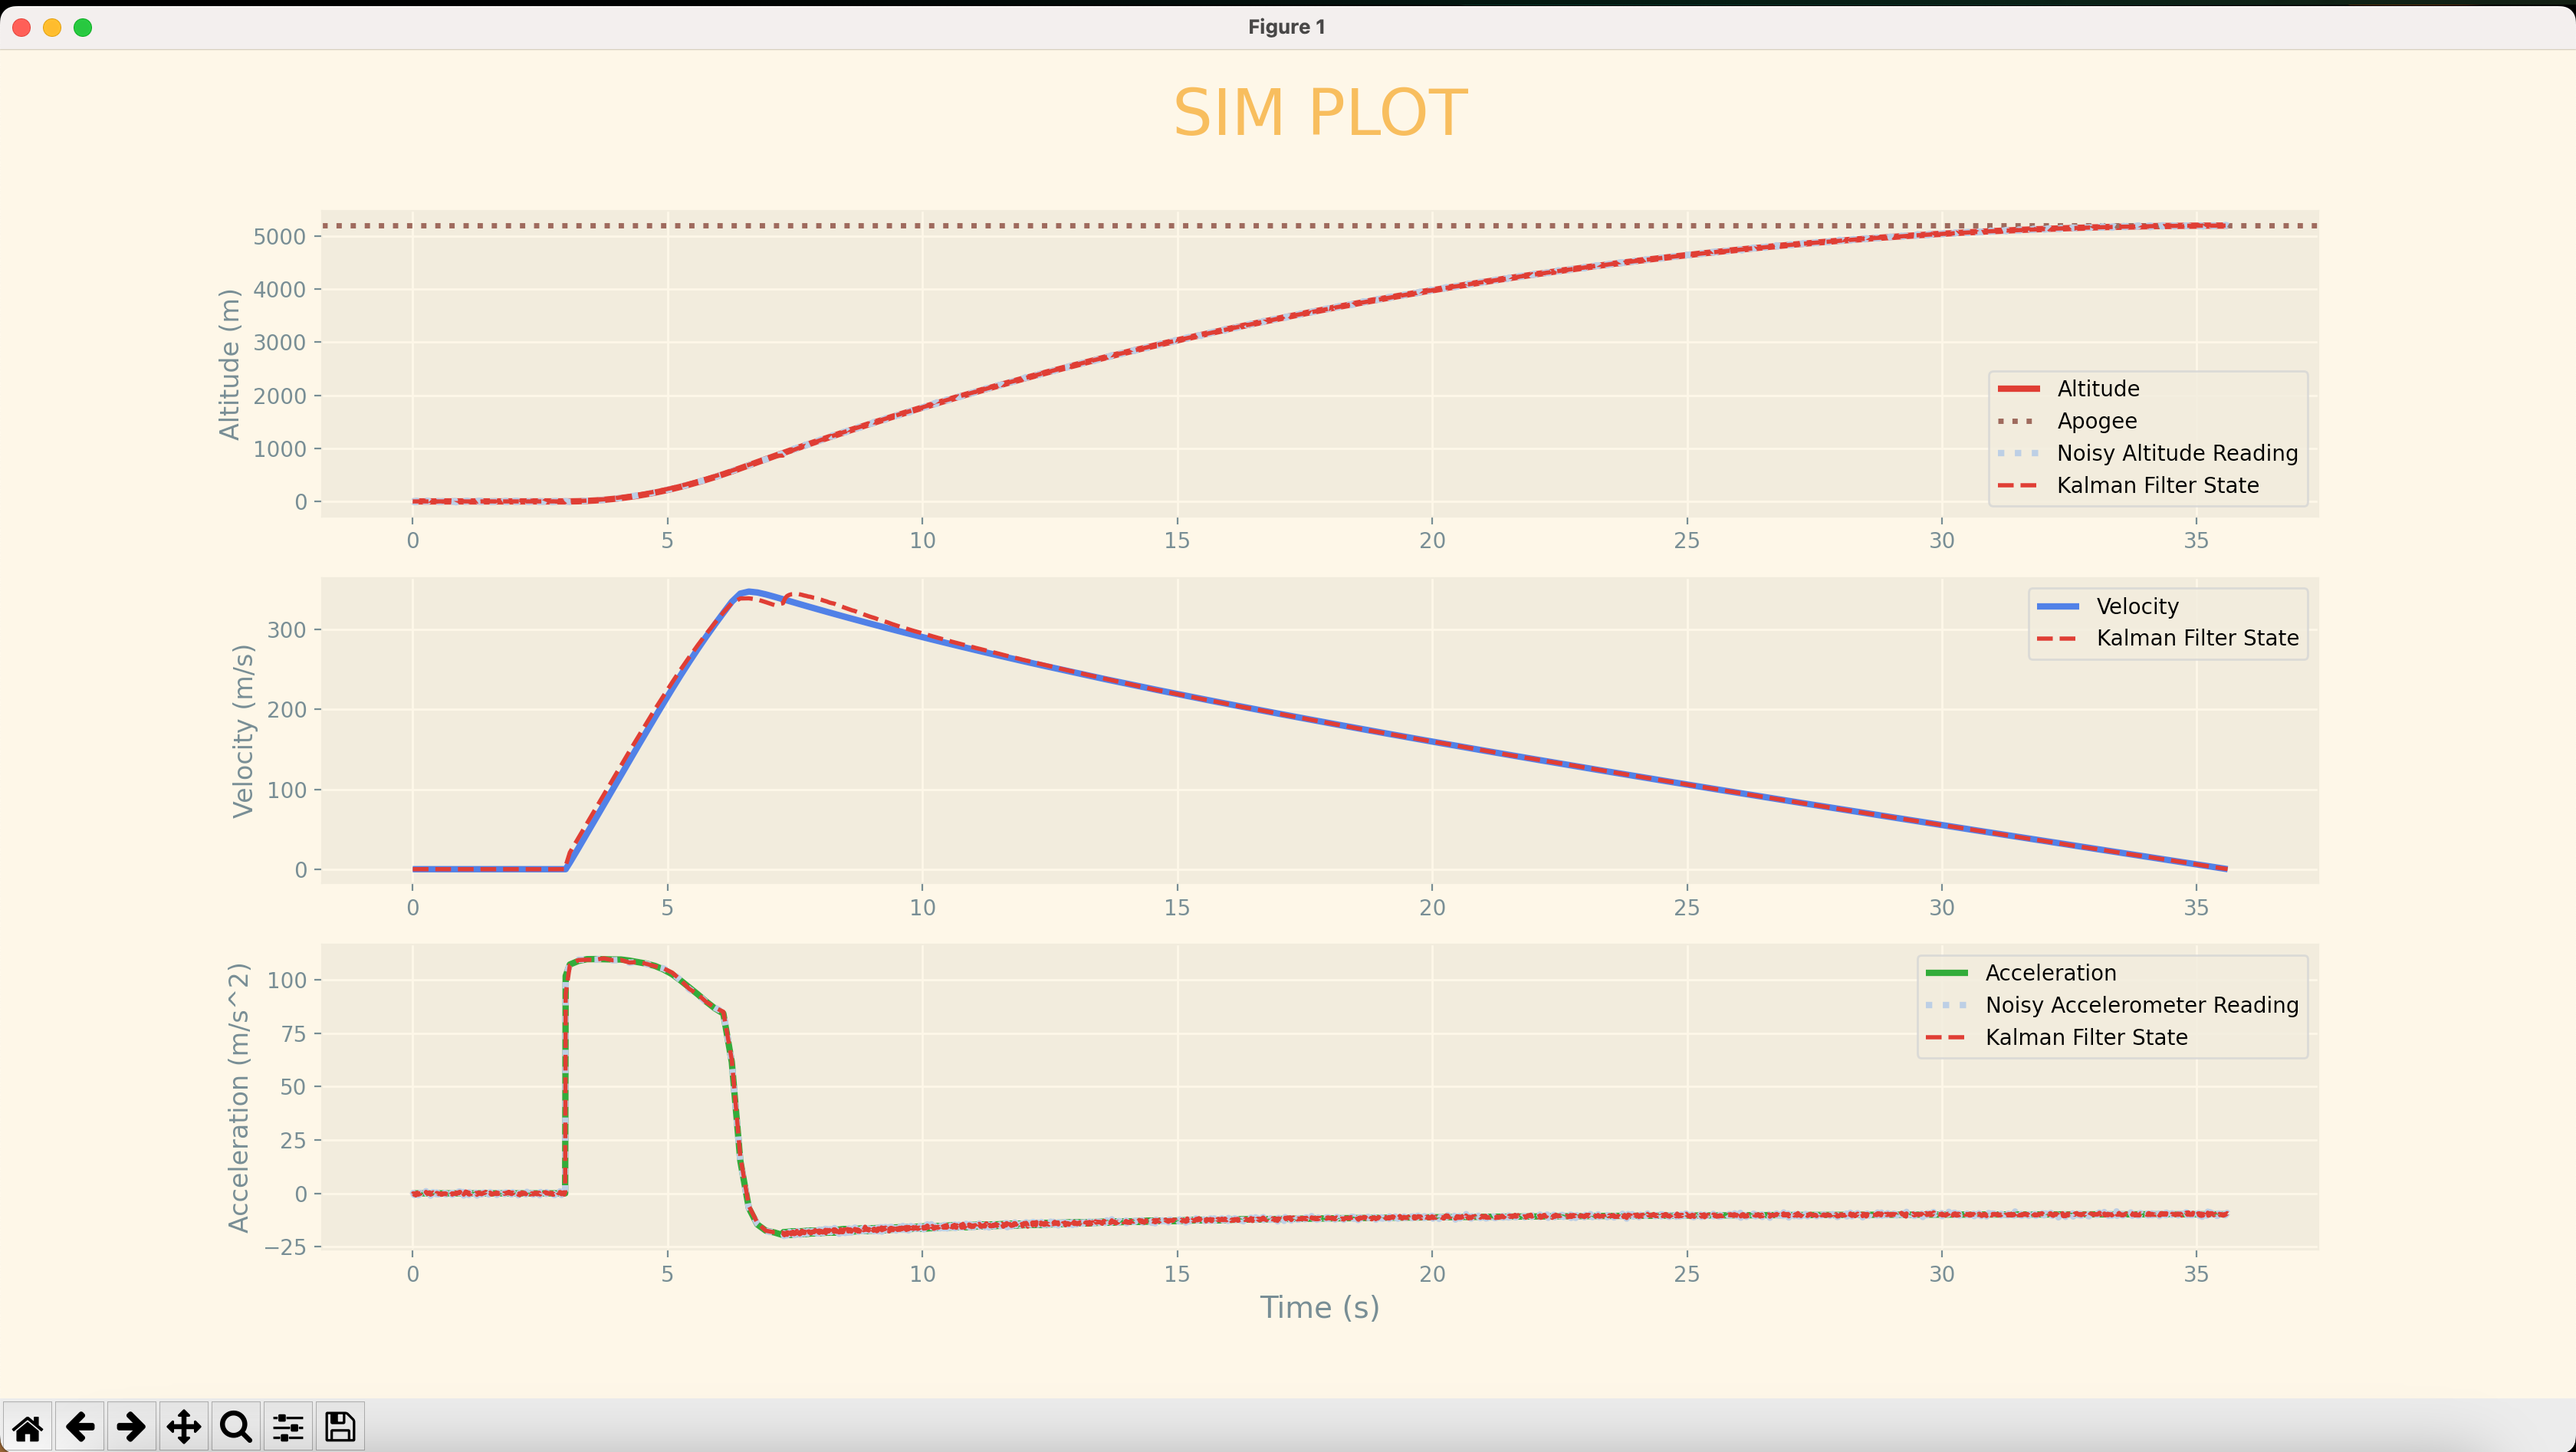
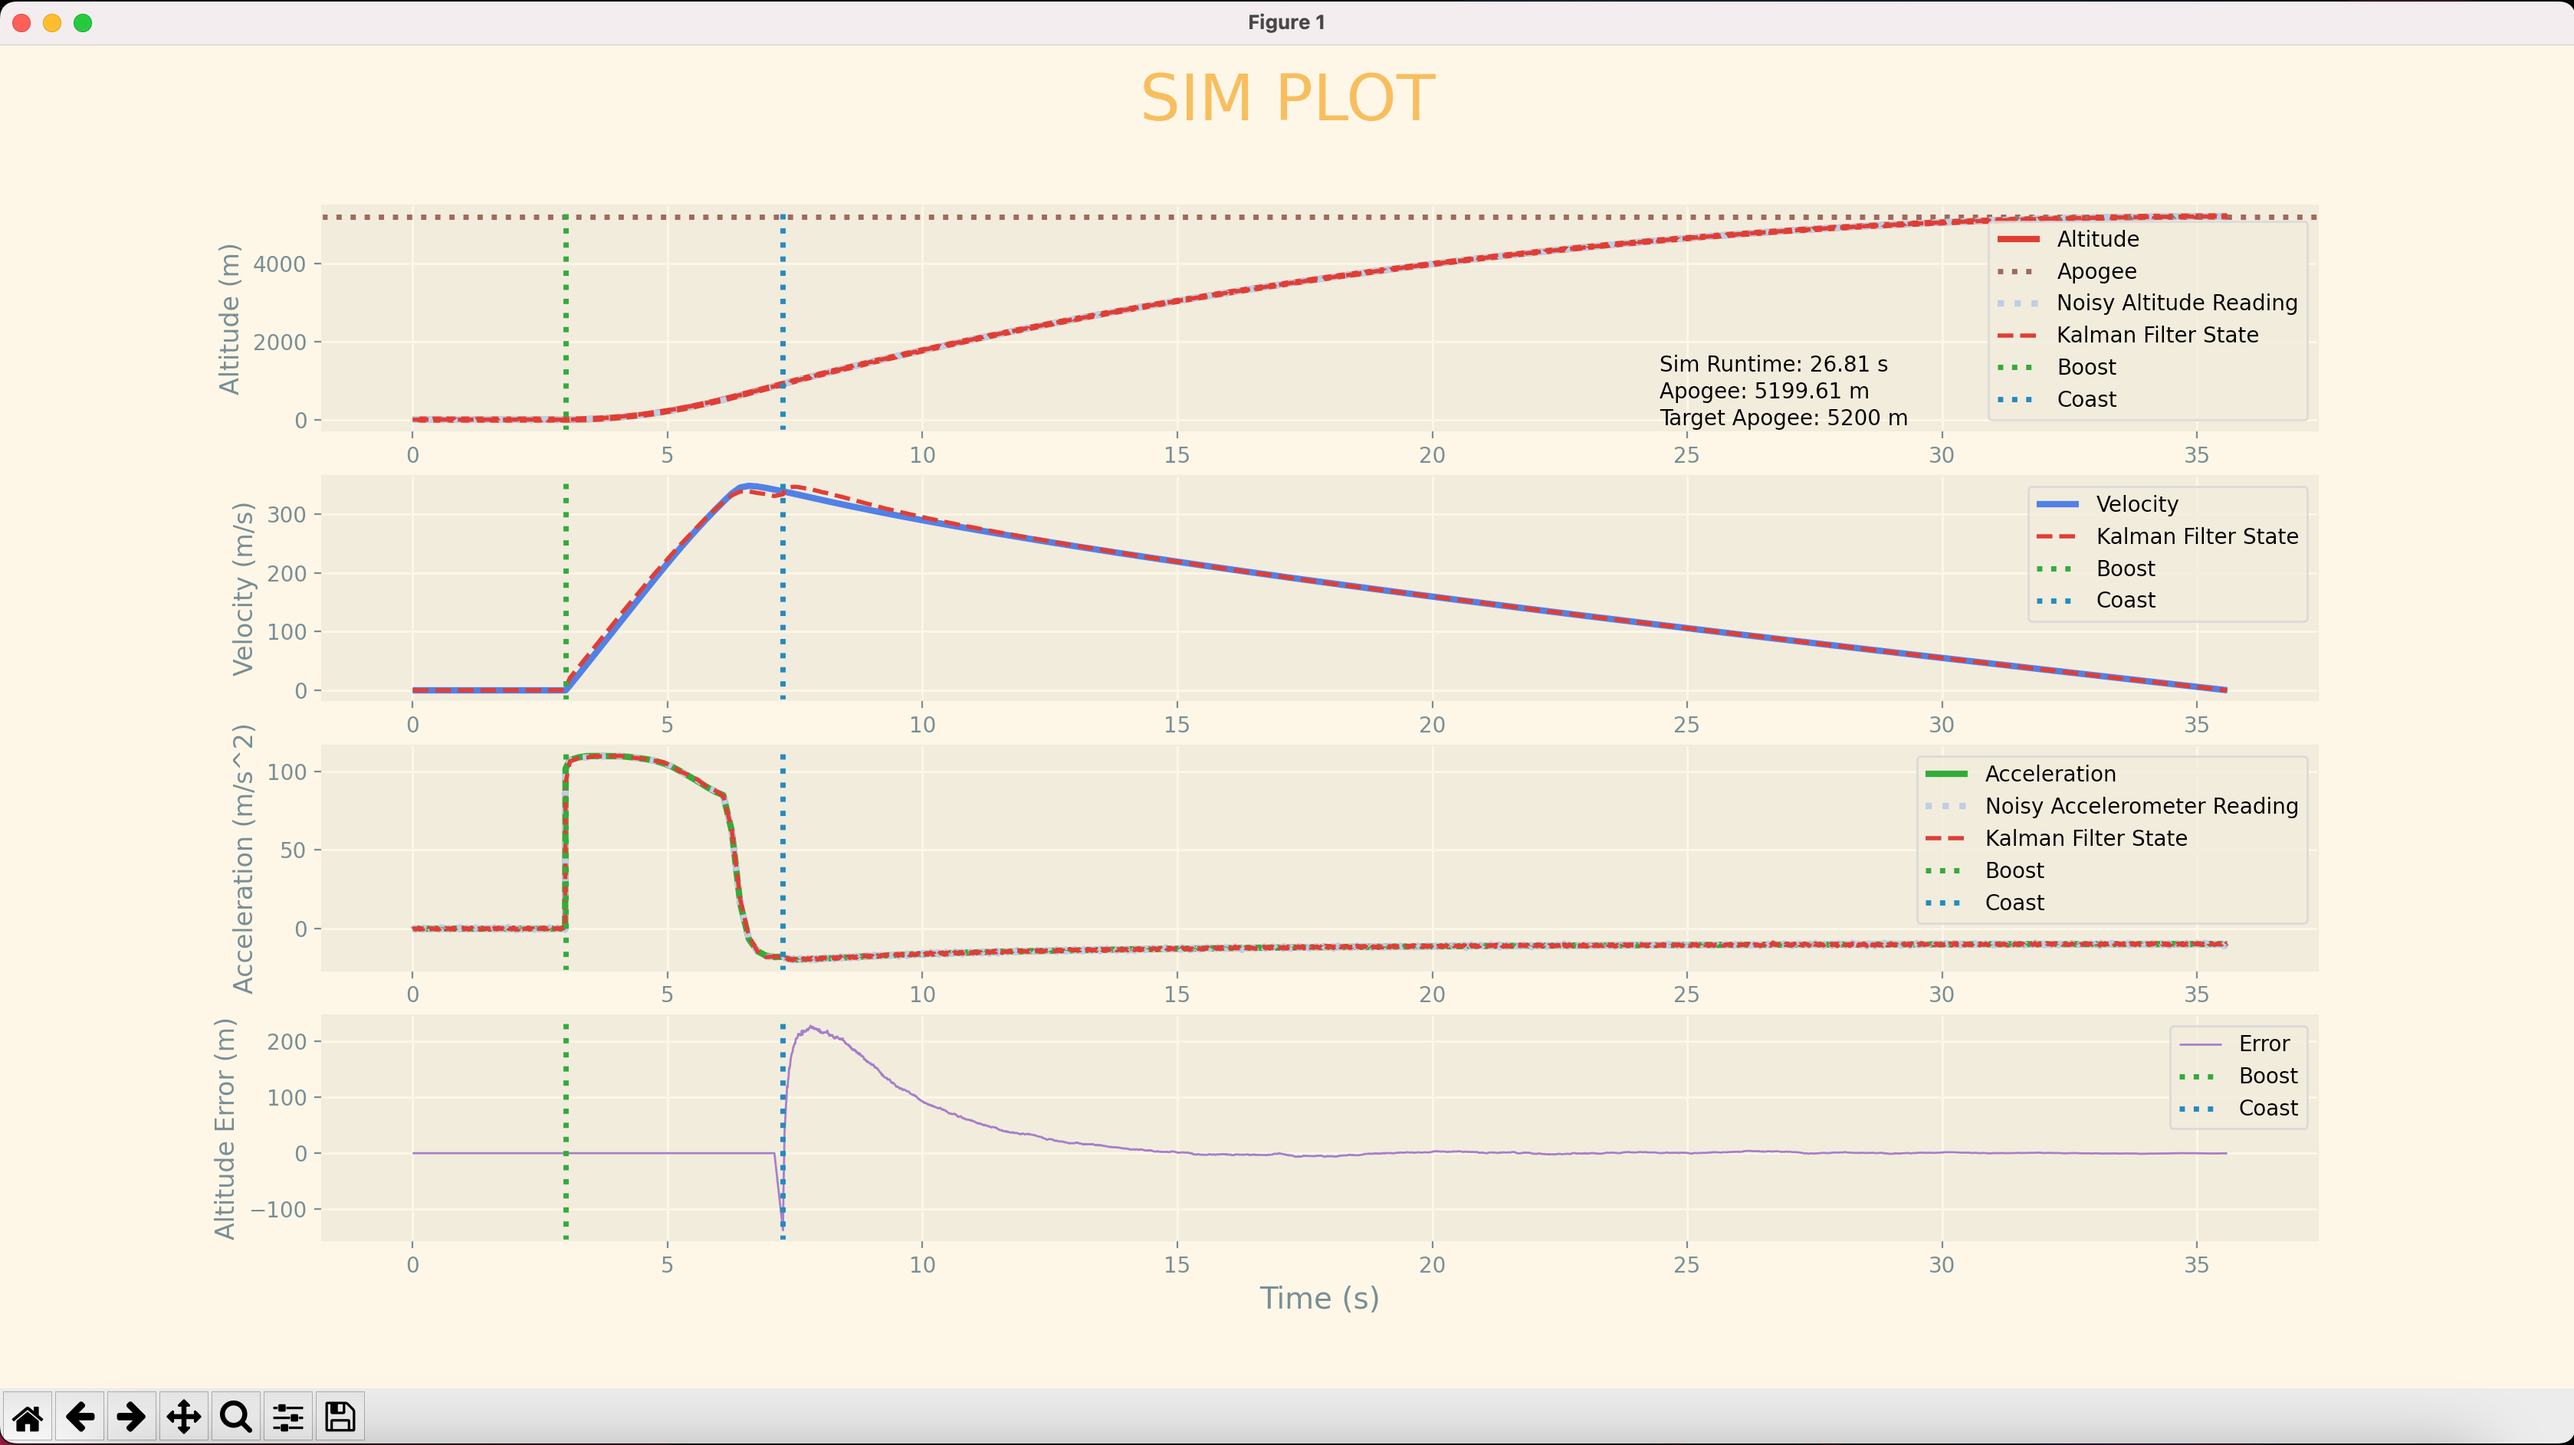
added PID Controller and fixed Plotting

diff --git a/plotSIM.py b/plotSIM.py
@@ -1,35 +1,38 @@
 from turtle import color
 import numpy as np
 import matplotlib.pyplot as plt
+import src.constants as const
 
 
-def plotter(sim_dict, sim_dict_noisy, sim_dict_kalman, apogee):
+def plotter(sim_dict, sim_dict_noisy, sim_dict_kalman, sim_error, apogee, coast_start, sim_runtime):
 
     plt.style.use('Solarize_Light2')
 
 
-
-    fig,(alt_nc,vel_nc,accel_nc) = plt.subplots(3,1,figsize=(15,10), sharex=False)
-    plt.title("SIM PLOT", color='#F5B14C', fontsize = 30, pad=400)
+    fig,(alt_nc,vel_nc,accel_nc, error_nc) = plt.subplots(4,1,figsize=(15,10), sharex=False)
+    fig.suptitle("SIM PLOT", color='#F5B14C', fontsize = 30)
 
     # Altitude Measurements vs Real Altitude vs Kalman Filter Graph (No Control)
-    plt.legend(fontsize = 14) 
+    # plt.legend(fontsize = 14) 
     plt.xlabel("Time (s)", fontsize = 14)
-
     alt_nc.plot(sim_dict["time"], sim_dict["altitude"], label="Altitude", color="tab:red", linewidth = 3)
     alt_nc.axhline(y = apogee, color = "tab:brown", linestyle = "dotted", linewidth = 2.5, label="Apogee")
     alt_nc.plot(sim_dict_noisy["time"], sim_dict_noisy["altitude"],label="Noisy Altitude Reading",color="lightsteelblue", linewidth = 3, linestyle=":")
-    # alt_nc.plot(sim_dict_nc["time_sim"], sim_dict_nc["x"],label="Real Altitude",color="royalblue", linewidth = 3);  
     alt_nc.plot(sim_dict_kalman["time"], sim_dict_kalman["altitude"],label="Kalman Filter State",linestyle="--",color="tab:red")
     alt_nc.set(ylabel = "Altitude (m)")
-   # alt_nc.axvline(x = delay, color = "tab:green", linestyle = "dotted", linewidth = 2.5, label="Launch");plt.legend(fontsize = 14); plt.xlabel("Time (s)", fontsize = 14)
+    alt_nc.axvline(x = const.sim_start_delay, color = "tab:green", linestyle = "dotted", linewidth = 2.5, label="Boost")
+    alt_nc.axvline(x = coast_start, color = "tab:blue", linestyle = "dotted", linewidth = 2.5, label="Coast")
+    alt_nc.text(0.67, 0.05, "Target Apogee: " + str(round(const.DESIRED_APOGEE,2)) + " m", verticalalignment='center', horizontalalignment='left', transform=alt_nc.transAxes, color='black', fontsize=10)
+    alt_nc.text(0.67, 0.17, "Apogee: " + str(round(apogee,2)) + " m", verticalalignment='center', horizontalalignment='left', transform=alt_nc.transAxes, color='black', fontsize=10)
+    alt_nc.text(0.67, 0.29, "Sim Runtime: " + str(round(sim_runtime,2)) + " s", verticalalignment='center', horizontalalignment='left', transform=alt_nc.transAxes, color='black', fontsize=10)
     alt_nc.legend()
 
     # Real Velocity vs Kalman Filter Graph (No Control)
     vel_nc.plot(sim_dict["time"], sim_dict["velocity"],label="Velocity",color="royalblue", linewidth = 3);  
     vel_nc.plot(sim_dict_kalman["time"], sim_dict_kalman["velocity"],label="Kalman Filter State",linestyle="--",color="tab:red")
     vel_nc.set(ylabel = "Velocity (m/s)")
-    #vel_nc.axvline(x = delay, color = "tab:green", linestyle = "dotted", linewidth = 2.5, label="Launch");plt.legend(fontsize = 14); plt.xlabel("Time (s)", fontsize = 14)
+    vel_nc.axvline(x = const.sim_start_delay, color = "tab:green", linestyle = "dotted", linewidth = 2.5, label="Boost")
+    vel_nc.axvline(x = coast_start, color = "tab:blue", linestyle = "dotted", linewidth = 2.5, label="Coast")
     vel_nc.legend()
 
     # Acceleration Measurements vs Real Acceleration vs Kalman Filter Graph (No Control)
@@ -37,12 +40,14 @@ def plotter(sim_dict, sim_dict_noisy, sim_dict_kalman, apogee):
     accel_nc.plot(sim_dict_noisy["time"], sim_dict_noisy["acceleration"],label="Noisy Accelerometer Reading",color="lightsteelblue", linewidth = 3, linestyle=":")
     accel_nc.plot(sim_dict_kalman["time"], sim_dict_kalman["acceleration"],label="Kalman Filter State",linestyle="--",color="tab:red")
     accel_nc.set(ylabel = "Acceleration (m/s^2)")
-    #accel_nc.axvline(x = delay, color = "tab:green", linestyle = "dotted", linewidth = 2.5, label="Launch");plt.legend(fontsize = 14); plt.xlabel("Time (s)", fontsize = 14)
+    accel_nc.axvline(x = const.sim_start_delay, color = "tab:green", linestyle = "dotted", linewidth = 2.5, label="Boost")
+    accel_nc.axvline(x = coast_start, color = "tab:blue", linestyle = "dotted", linewidth = 2.5, label="Coast")
     accel_nc.legend()
 
-    # flap_nc.plot(sim_dict_nc["time_sim"], sim_dict_nc["flap_extension"],label="Flap Extension (Control)",color="royalblue", linewidth = 3); 
-    # flap_nc.set(ylabel = "Flap Extension Length (m)")
-    # #flap_nc.axvline(x = delay, color = "tab:green", linestyle = "dotted", linewidth = 2.5, label="Launch");plt.legend(fontsize = 14); plt.xlabel("Time (s)", fontsize = 14)
-    # flap_nc.legend()
+    error_nc.plot(sim_error["time"], sim_error["error"],label="Error",color="tab:purple", linewidth = 1)
+    error_nc.set(ylabel = "Altitude Error (m)")
+    error_nc.axvline(x = const.sim_start_delay, color = "tab:green", linestyle = "dotted", linewidth = 2.5, label="Boost")
+    error_nc.axvline(x = coast_start, color = "tab:blue", linestyle = "dotted", linewidth = 2.5, label="Coast")
+    error_nc.legend()
 
     plt.show()

diff --git a/SIM_main.py b/SIM_main.py
@@ -10,8 +10,10 @@ import src.kalman_filter as kalman
 
 #CLASS VARIABLES
 current_time = 0
-apogee = 0
-
+kalman_apogee = 0
+predicted_alt = constants.DESIRED_APOGEE
+coast_start_time = 0
+sim_runtime = 0
 #State Array: altitude [0], velocity [1], acceleration [2]
 x_state = [0, 0, 0]
 x_state_kalman = [0, 0, 0]
@@ -40,8 +42,16 @@ sim_dict_noisy = {
     "time": []
 }
 
+sim_error = {
+    "error": [],
+    "time": []
+}
+
 def updateState(time_step=10e-3): 
-    global x_state, current_time, sim_dict, x_state_kalman
+    global x_state, current_time, sim_dict, x_state_kalman, sim_dict_noisy, sim_error
+
+    sim_error["error"].append(predicted_alt-constants.DESIRED_APOGEE)
+    sim_error["time"].append(current_time)
 
     sim_dict["altitude"].append(x_state[0])
     sim_dict["velocity"].append(x_state[1])
@@ -74,20 +84,18 @@ def launch_SIM():
     wait()
 
 def wait():
-    kalman.initialize(0, 0, 0)
-    for x in range(300):
+    kalman.initialize(sensors.getBaroData(x_state[0]), 0, sensors.getAccXData(x_state[2]))
+    for x in range(int(constants.sim_start_delay/constants.dt)):
         updateState()
     
     boost()
 
 def boost():
     print ("boost")
-    global boost_time, x_state, x_state_kalman
+    global boost_time, x_state, x_state_kalman, coast_start_time
 
     thrust_data = pandas.read_csv("csv_data/AeroTech_M2500T_Trimmed.csv").to_dict()
     
-    # init_acc = (thrust_data["Thrust (N)"][0])/(constants.rocket_mass) - constants.g - (atmosphere.aero_drag(x_state))/(constants.rocket_mass)
-
     boost_time = thrust_data["Time (s)"][len(thrust_data["Time (s)"])-1]
     thrust_time_delta = thrust_data["Time (s)"][0]
 
@@ -97,32 +105,36 @@ def boost():
         if(x!=0):
             thrust_time_delta = thrust_data["Time (s)"][x] - thrust_data["Time (s)"][x-1]
         updateState(thrust_time_delta)
+    
+    coast_start_time = current_time
     coast()
 
 def coast():
     print("coast")
-    global x_state, apogee, x_state_kalman
+    global x_state, kalman_apogee, x_state_kalman, predicted_alt, coast_start_time, sim_runtime
 
     flap_extension = 0
     while (x_state_kalman[1] > 0):
 
         predicted_alt = controls.predict_alt(x_state_kalman, flap_extension)
+
         flap_extension = controls.active_drag_PID(predicted_alt)
+
         x_state[2] = -(constants.g + ((atmosphere.aero_drag(x_state_kalman) + controls.active_aero_drag(x_state_kalman, flap_extension))/(constants.rocket_mass)))
         updateState()
-        # print(x_state_kalman[0])
+    kalman_apogee = x_state_kalman[0]
+    sim_runtime = time.time() - start_time
 
-    apogee = x_state_kalman[0]
 
 
 def printSIMStatus():
-    print("apogee reached (m): " + str(apogee))
+    print("kalman apogee reached (m): " + str(kalman_apogee))
     print("time to apogee (s): " + str(current_time))
-    print("sim runtime (s): " + str(time.time() - start_time))
+    print("sim runtime (s): " + str(sim_runtime))
 
 
 ############ RUN SIM ##############
 start_time = time.time()
 launch_SIM()
 printSIMStatus()
-plotSIM.plotter(sim_dict, sim_dict_noisy, sim_dict_kalman, apogee)
+plotSIM.plotter(sim_dict, sim_dict_noisy, sim_dict_kalman, sim_error, kalman_apogee, coast_start_time, sim_runtime)

diff --git a/src/controls.py b/src/controls.py
@@ -9,10 +9,12 @@ vel_pred = 0
 acc_pred = 0
 
 #PID Variables:
-Kp = 0.1
-Ki = 0
-Kd = 0
+Kp = 0.0035
+Ki = 0.000001
+Kd = 0.0000001
 
+error_sum = 0
+error_derivative = 0
 
 
 def active_aero_drag(x_state, flap_ext):
@@ -22,9 +24,14 @@ def active_aero_drag(x_state, flap_ext):
     return 0.5*atmosphere.density(z)*(vel**2)*constants.C_d_flaps*(A_flaps)
 
 def active_drag_PID(predicted_apogee):
-    #returns ratio (0<=x<=1) of total flap extension
+    global error_sum
     error = predicted_apogee - constants.DESIRED_APOGEE
-    control_out = Kp * error
+    old_error = error_sum
+    error_sum += error
+    error_derivative = (error_sum-old_error)/constants.dt
+
+    control_out = (Kp * error) + (Ki * error_sum) + (Kd * error_derivative)
+
     if (control_out > 1):
         control_out = 1
     elif (control_out < 0):

diff --git a/src/constants.py b/src/constants.py
@@ -10,3 +10,7 @@ rocket_Cd = 0.2
 flap_width = 0.0351 # (m)
 flap_length_max = 0.021 # (m)
 C_d_flaps = 0.7
+
+sim_start_delay = 3
+
+dt = 0.01
